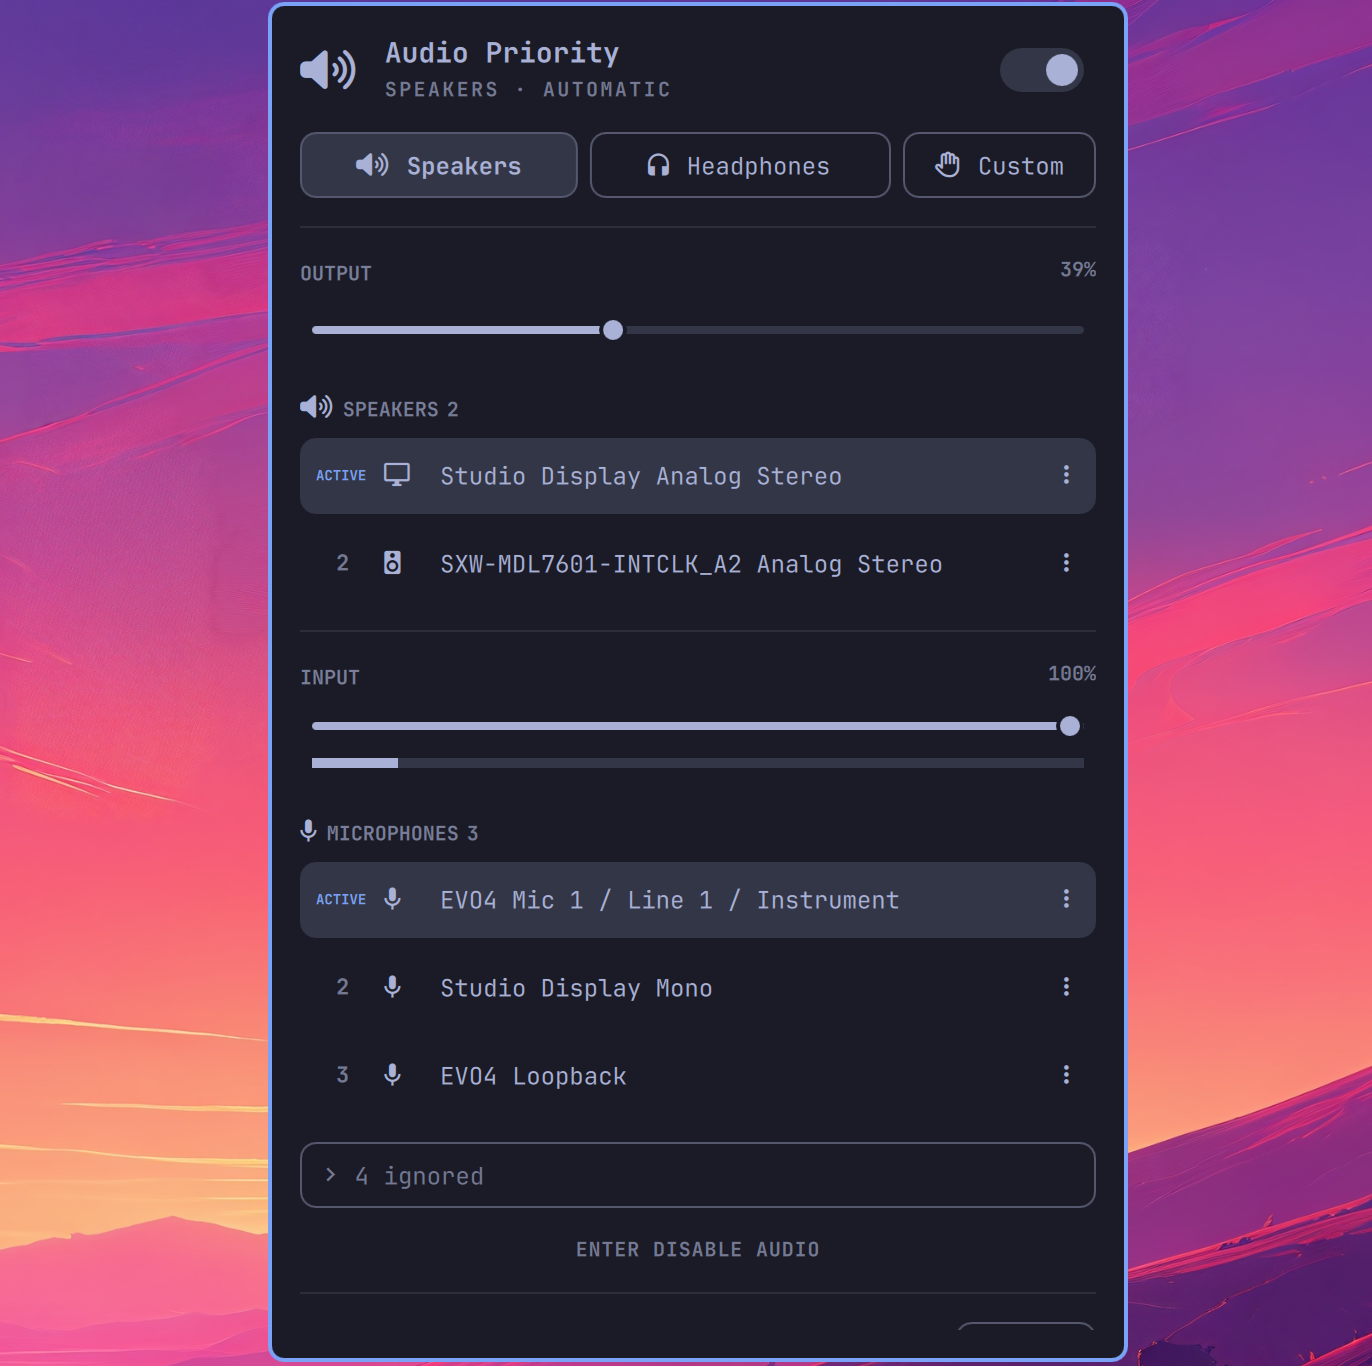
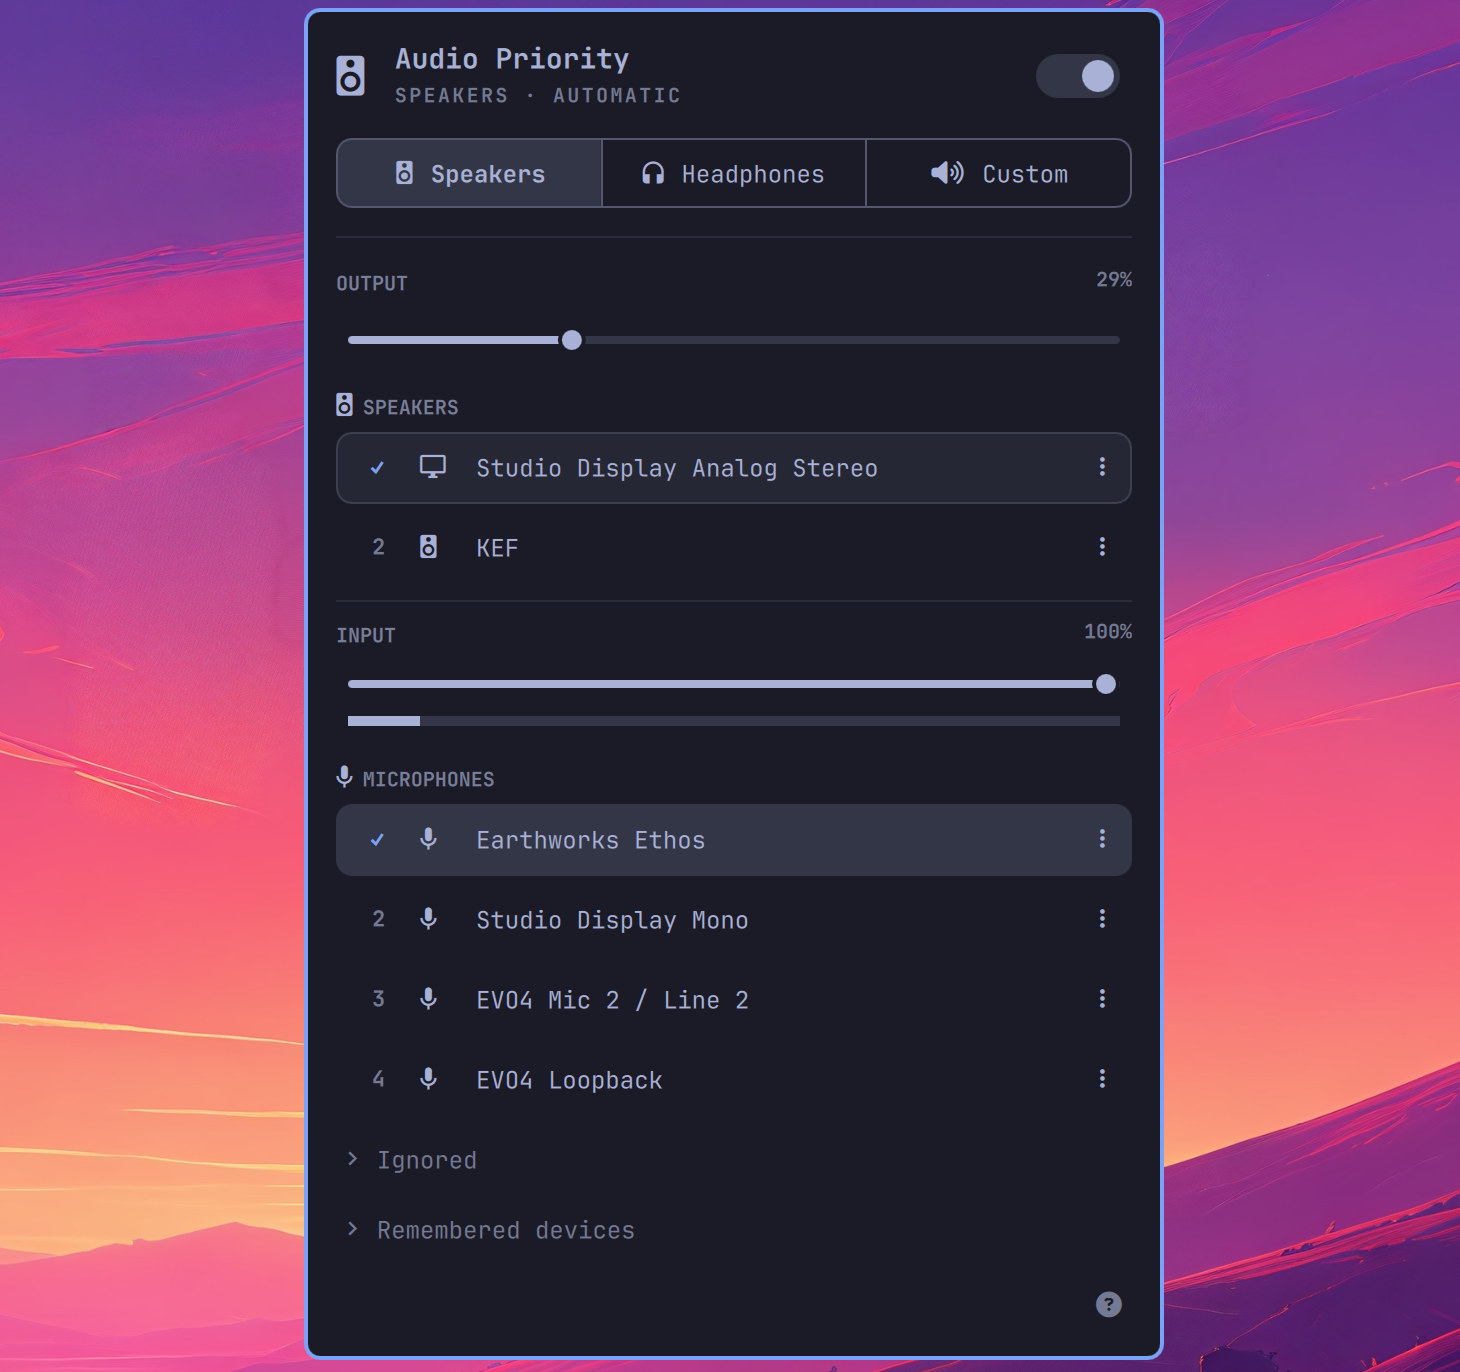
docs: update preview and removal instructions

diff --git a/README.md b/README.md
@@ -47,6 +47,15 @@ release tag or a commit published through a trusted channel. Re-review changes
 before running `omarchy plugin update`. The widget is added to the right side of
 the bar when enabled; no separate daemon or systemd unit is installed.
 
+## Remove
+
+```bash
+omarchy plugin remove melonamin.audio-priority
+```
+
+Removal leaves `~/.config/omarchy/audio-priority.json` in place so a later
+reinstall can restore the existing preferences.
+
 ## Use
 
 Open the widget and choose a mode:
